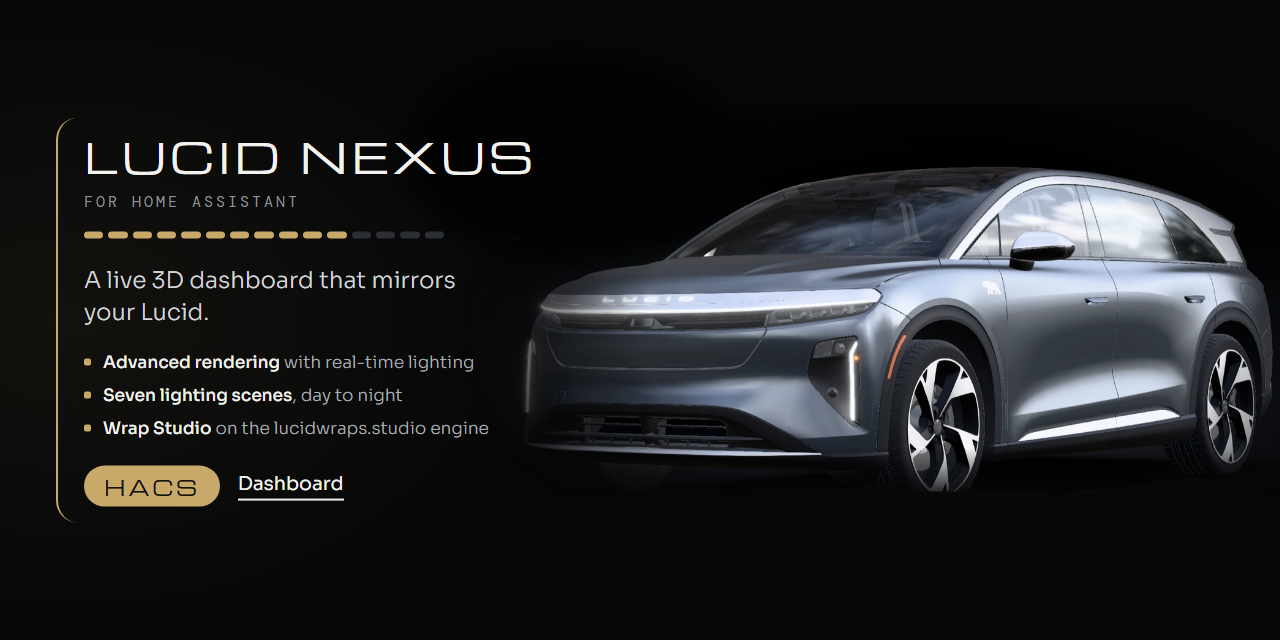
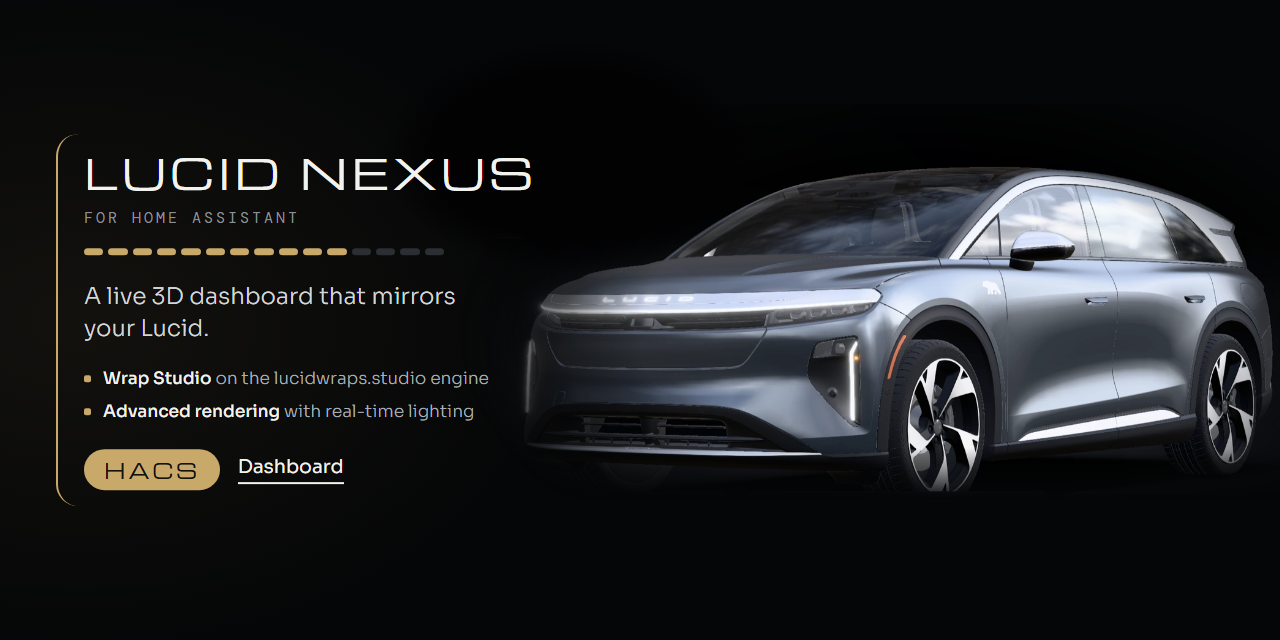
Lead the social preview with the Wrap Studio, drop the scenes line
The lighting scenes are not built out enough to headline. The preview now
calls out the Wrap Studio first, then the rendering.

Changed region(s): [[0.0625, 0.2188, 0.4375, 0.5312], [0.0625, 0.5625, 0.375, 0.8125]]

diff --git a/branding/social.html b/branding/social.html
@@ -41,9 +41,8 @@ body{position:relative;color:var(--paper);font-family:Sora,sans-serif}
   <div class="bar"><i></i><i></i><i></i><i></i><i></i><i></i><i></i><i></i><i></i><i></i><i></i><i class="off"></i><i class="off"></i><i class="off"></i><i class="off"></i></div>
   <p class="tag">A live 3D dashboard that mirrors your Lucid.</p>
   <ul class="feats">
-    <li><span><b>Advanced rendering</b> with real-time lighting</span></li>
-    <li><span><b>Seven lighting scenes</b>, day to night</span></li>
     <li><span><b>Wrap Studio</b> on the lucidwraps.studio engine</span></li>
+    <li><span><b>Advanced rendering</b> with real-time lighting</span></li>
   </ul>
   <div class="row"><span class="pill">HACS</span><span class="link">Dashboard</span></div>
 </div>
